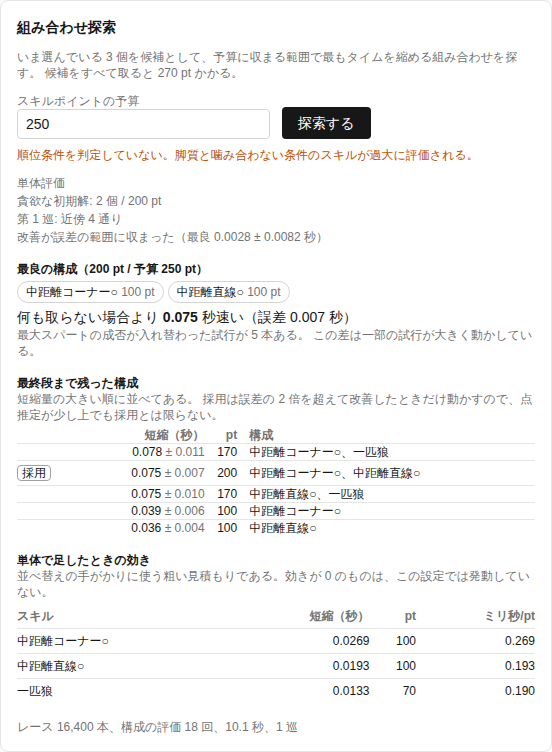
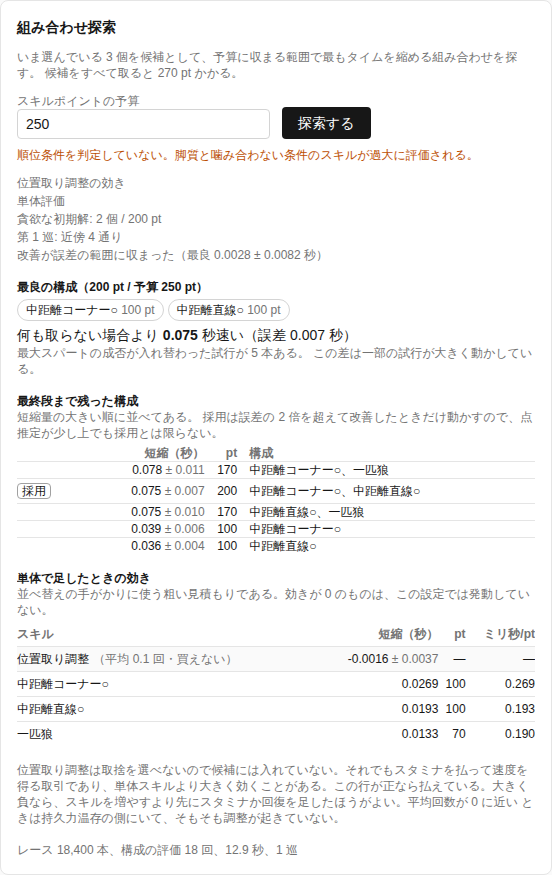
位置取り調整を単体評価の参考行として出す
位置取り調整はスキルと同じ形の取引をしている。目標速度に
positionCompetitionSpeed が乗り、代わりに positionCompetitionStamina を
引く。違うのは取捨を決めるのが利用者ではなくモデルだという点だけである。

そのため候補には入れない。「位置取り調整を取れ」を実行する手段が無いし、
探索は候補ごとに完全なシミュレーションを回すので、この振る舞いは既に
評価に織り込まれている。疑似候補として足しても答えは変わらない。

足りないのは可視化だった。利用者は自分が調整を払えている側にいるのかを
知らされていない。単体評価の表に参考の 1 行を出す。測り方は候補と同じで、
調整を止めた場合との試行ごとの引き算である。止めるのは調整だけにして、
持久力温存はそのままにする。同じ馬から調整の振る舞いだけを抜きたい。

東京 芝2400m・先行での実測。

  スタミナ 1000: 平均 0.09 回、+0.0011 秒（予算 300pt の最良は 0.1302 秒）
  スタミナ 1400: 平均 5.83 回、+0.1203 秒

払えている側では、位置取り調整だけで 270 ポイントぶんのスキルにほぼ
匹敵する。払えていない側では回数が 0 に潰れ、その 0 が「調整の側にいない」
という情報になる。

あわせて逆算の前提を画面と設計書に明記した。逆算が返すのは最小値なので、
その水準では温存の側に落ちる。つまり調整をほとんど払わない走りを前提に
した答えである。調整が毎回起きる前提だと必要スタミナは 170 から 210 ほど
上がる。定義から必然的にそうなるが、気付けないと値をそのまま目標にして
足りなくなる。

余分に走るのは 1 回ぶんだけである。基準の評価は探索が既に持っている。

Claude-Session: https://claude.ai/code/session_01DzNL4zruiATviSwWW6axfN

Changed region(s): [[0.0308, 0.0, 0.9855, 0.9787], [0.4312, 0.7646, 0.4928, 0.7952]]

diff --git a/packages/solver/src/optimize.ts b/packages/solver/src/optimize.ts
@@ -27,6 +27,8 @@ export interface Evaluation {
   readonly times: Float64Array;
   /** 試行ごとの最大スパート成否。1 なら成立。 */
   readonly maxSpurt: Uint8Array;
+  /** 試行ごとの位置取り調整の回数 */
+  readonly positionCompetitionCount: Float64Array;
 }
 
 export interface PairedDiff {
@@ -112,16 +114,39 @@ export class Evaluator {
     });
     const times = new Float64Array(results.length);
     const maxSpurt = new Uint8Array(results.length);
+    const positionCompetitionCount = new Float64Array(results.length);
     for (let i = 0; i < results.length; i++) {
       times[i] = results[i]!.raceTime;
       maxSpurt[i] = results[i]!.maxSpurt ? 1 : 0;
+      positionCompetitionCount[i] = results[i]!.positionCompetitionCount;
     }
     this.races += results.length;
     this.evaluations++;
-    const evaluation: Evaluation = { skillIds: [...skillIds], times, maxSpurt };
+    const evaluation: Evaluation = { skillIds: [...skillIds], times, maxSpurt, positionCompetitionCount };
     this.cache.set(key, evaluation);
     return evaluation;
   }
+}
+
+/**
+ * 位置取り調整が実際に効いている量。
+ *
+ * 位置取り調整は買えるものではないので、候補には入れない。それでも
+ * スタミナを払って速度を得る取引ではあり（`state.ts` の目標速度に
+ * `positionCompetitionSpeed` が乗り、`applyPositionCompetition` で
+ * `positionCompetitionStamina` を引く）、その収支は単体スキルより
+ * 大きいことがある。買えないものとして、参考の 1 行だけ同じ土俵に並べる。
+ *
+ * 測り方は候補の単体評価と同じで、調整を止めた場合との試行ごとの引き算である。
+ * 止めるのは調整だけで、持久力温存はそのままにする。
+ * 同じ馬から調整の振る舞いだけを抜いた場合と比べたい。
+ */
+export interface PositionCompetitionEffect {
+  /** いまの設定で実際に起きた平均回数。0 に近ければ温存側にいる。 */
+  readonly averageCount: number;
+  /** 調整が起きなかった場合から見た短縮量。正なら調整があるほうが速い。 */
+  readonly diff: PairedDiff;
+  readonly races: number;
 }
 
 /** 単体で足したときの効き。並べ替えの手がかりと、UI での表示に使う。 */
@@ -131,6 +156,42 @@ export interface SingleEffect {
   readonly cost: number;
   /** 1 ポイントあたりの短縮量 */
   readonly efficiency: number;
+}
+
+export async function measurePositionCompetition(
+  context: OptimizeContext,
+  baseline: Evaluation,
+  trials: number,
+): Promise<PositionCompetitionEffect> {
+  const system: SystemSetting = { ...context.system, positionCompetitionRate: 0 };
+  const setting: SerializableRaceSetting = { ...context.base, skillIds: [...baseline.skillIds] };
+  const { results } = await context.pool.run(setting, system, {
+    count: trials,
+    seed: context.seed,
+    field: context.field ?? null,
+  });
+  const times = new Float64Array(results.length);
+  const maxSpurt = new Uint8Array(results.length);
+  const positionCompetitionCount = new Float64Array(results.length);
+  for (let i = 0; i < results.length; i++) {
+    times[i] = results[i]!.raceTime;
+    maxSpurt[i] = results[i]!.maxSpurt ? 1 : 0;
+    positionCompetitionCount[i] = results[i]!.positionCompetitionCount;
+  }
+  const without: Evaluation = {
+    skillIds: baseline.skillIds,
+    times,
+    maxSpurt,
+    positionCompetitionCount,
+  };
+  const counts = baseline.positionCompetitionCount;
+  let sum = 0;
+  for (const count of counts) sum += count;
+  return {
+    averageCount: counts.length === 0 ? 0 : sum / counts.length,
+    diff: pairedDiff(without, baseline),
+    races: results.length,
+  };
 }
 
 export interface OptimizeOptions {
@@ -148,6 +209,8 @@ export interface OptimizeOptions {
   readonly minKeep?: number;
   readonly onProgress?: (message: string) => void;
   readonly signal?: AbortSignal;
+  /** 位置取り調整の参考行を測るか。既定は測る。1 回ぶん余分に走る。 */
+  readonly measurePositionCompetition?: boolean;
 }
 
 export interface OptimizeEntry {
@@ -163,6 +226,8 @@ export interface OptimizeResult {
   /** 最終段まで残った構成を、短縮量の大きい順に並べたもの */
   readonly top: readonly OptimizeEntry[];
   readonly singles: readonly SingleEffect[];
+  /** 買えないが効いているもの。測らなかったときは null。 */
+  readonly positionCompetition: PositionCompetitionEffect | null;
   readonly cost: number;
   readonly races: number;
   readonly evaluations: number;
@@ -201,6 +266,14 @@ export async function optimizeSkills(
   // 基準は候補を 1 つも取らない構成
   const baseIds = context.base.skillIds.filter((id) => !candidates.includes(id));
   const baseline = await evaluator.evaluate(baseIds, lastStage);
+
+  // 位置取り調整の参考行。基準の評価をそのまま使うので、余分に走るのは 1 回ぶんだけ。
+  let positionCompetition: PositionCompetitionEffect | null = null;
+  if (options.measurePositionCompetition !== false) {
+    report('位置取り調整の効き');
+    positionCompetition = await measurePositionCompetition(context, baseline, lastStage);
+    evaluator.races += positionCompetition.races;
+  }
 
   // 単体評価。並べ替えの手がかりなので、少ない試行で足りる。
   report('単体評価');
@@ -300,6 +373,7 @@ export async function optimizeSkills(
     bestDiff: currentDiff,
     top,
     singles,
+    positionCompetition,
     cost: context.cost.totalCost(selected(current, candidates)),
     races: evaluator.races,
     evaluations: evaluator.evaluations,

diff --git a/packages/sim/test/optimize.test.ts b/packages/sim/test/optimize.test.ts
@@ -6,7 +6,13 @@ import { WorkerPool } from '../src/parallel/pool.ts';
 import { toSerializable } from '../src/parallel/protocol.ts';
 import { defaultSystemSetting, type RaceSetting } from '../src/setting.ts';
 import { createCostModel, dedupeByGroup } from '../../solver/src/cost.ts';
-import { Evaluator, optimizeSkills, pairedDiff, type OptimizeContext } from '../../solver/src/optimize.ts';
+import {
+  Evaluator,
+  measurePositionCompetition,
+  optimizeSkills,
+  pairedDiff,
+  type OptimizeContext,
+} from '../../solver/src/optimize.ts';
 
 const data = loadGameData();
 const system = defaultSystemSetting();
@@ -158,4 +164,83 @@ describe('組み合わせ探索', () => {
       await pool.dispose();
     }
   }, 240000);
+});
+
+describe('位置取り調整の参考行', () => {
+  /** スタミナだけを差し替えた文脈を作る。 */
+  function contextWithStamina(pool: WorkerPool, stamina: number): OptimizeContext {
+    return {
+      ...makeContext(pool),
+      base: toSerializable({ ...setting, uma: { ...setting.uma, stamina } }),
+    };
+  }
+
+  it('平均回数が評価そのものと一致する', async () => {
+    const pool = new WorkerPool(nodeWorkerFactory, 2);
+    try {
+      const context = contextWithStamina(pool, 1400);
+      const evaluator = new Evaluator(context);
+      const baseline = await evaluator.evaluate([], 200);
+      const effect = await measurePositionCompetition(context, baseline, 200);
+
+      let sum = 0;
+      for (const count of baseline.positionCompetitionCount) sum += count;
+      expect(effect.averageCount).toBeCloseTo(sum / 200, 10);
+      expect(effect.races).toBe(200);
+      expect(effect.diff.trials).toBe(200);
+    } finally {
+      await pool.dispose();
+    }
+  }, 120000);
+
+  it('スタミナが足りていれば調整があるほうが速い', async () => {
+    const pool = new WorkerPool(nodeWorkerFactory, 2);
+    try {
+      const context = contextWithStamina(pool, 1400);
+      const evaluator = new Evaluator(context);
+      const baseline = await evaluator.evaluate([], 300);
+      const effect = await measurePositionCompetition(context, baseline, 300);
+
+      // 余裕がある側では調整が実際に起きており、その収支は正になる。
+      expect(effect.averageCount).toBeGreaterThan(3);
+      expect(effect.diff.mean).toBeGreaterThan(2 * effect.diff.stdError);
+    } finally {
+      await pool.dispose();
+    }
+  }, 120000);
+
+  it('スタミナが足りなければ調整はそもそも起きない', async () => {
+    const pool = new WorkerPool(nodeWorkerFactory, 2);
+    try {
+      const context = contextWithStamina(pool, 700);
+      const evaluator = new Evaluator(context);
+      const baseline = await evaluator.evaluate([], 200);
+      const effect = await measurePositionCompetition(context, baseline, 200);
+
+      // 持久力温存が先に発火するので、平均回数はほぼ 0 になる。
+      // このとき参考行は「調整の側にいない」ことを示す。
+      expect(effect.averageCount).toBeLessThan(0.5);
+    } finally {
+      await pool.dispose();
+    }
+  }, 120000);
+
+  it('測らない指定なら null を返し、レース数も増えない', async () => {
+    const pool = new WorkerPool(nodeWorkerFactory, 2);
+    try {
+      const context = makeContext(pool);
+      const options = {
+        candidates: [skill('中距離コーナー○').id, skill('中距離直線○').id],
+        budget: 200,
+        stages: [40, 80],
+      };
+      const off = await optimizeSkills(context, { ...options, measurePositionCompetition: false });
+      const on = await optimizeSkills(context, options);
+      expect(off.positionCompetition).toBeNull();
+      expect(on.positionCompetition).not.toBeNull();
+      expect(on.races).toBeGreaterThan(off.races);
+    } finally {
+      await pool.dispose();
+    }
+  }, 180000);
 });

diff --git a/apps/web/src/components/Optimize.tsx b/apps/web/src/components/Optimize.tsx
@@ -165,6 +165,25 @@ export function OptimizePanel() {
                 </tr>
               </thead>
               <tbody>
+                {result.positionCompetition !== null && (
+                  <tr className="border-t border-neutral-200 bg-neutral-50 dark:border-neutral-800 dark:bg-neutral-800/40">
+                    <td className="py-1">
+                      位置取り調整
+                      <span className="ml-1 text-neutral-500">
+                        （平均 {result.positionCompetition.averageCount.toFixed(1)} 回・買えない）
+                      </span>
+                    </td>
+                    <td className="text-right tabular-nums">
+                      {result.positionCompetition.diff.mean.toFixed(4)}
+                      <span className="text-neutral-500">
+                        {' '}
+                        ± {(2 * result.positionCompetition.diff.stdError).toFixed(4)}
+                      </span>
+                    </td>
+                    <td className="text-right tabular-nums">—</td>
+                    <td className="text-right tabular-nums">—</td>
+                  </tr>
+                )}
                 {result.singles.map((single) => (
                   <tr
                     key={single.skillId}
@@ -181,6 +200,15 @@ export function OptimizePanel() {
               </tbody>
             </table>
           </div>
+
+          {result.positionCompetition !== null && (
+            <p className="text-xs text-neutral-500 dark:text-neutral-400">
+              位置取り調整は取捨を選べないので候補には入れていない。それでもスタミナを払って速度を
+              得る取引であり、単体スキルより大きく効くことがある。この行が正なら払えている。大きく
+              負なら、スキルを増やすより先にスタミナか回復を足したほうがよい。平均回数が 0 に近い
+              ときは持久力温存の側にいて、そもそも調整が起きていない。
+            </p>
+          )}
 
           <p className="text-xs text-neutral-500 dark:text-neutral-400">
             レース {result.races.toLocaleString()} 本、構成の評価 {result.evaluations} 回、

diff --git a/packages/solver/src/optimize-cli.ts b/packages/solver/src/optimize-cli.ts
@@ -93,6 +93,17 @@ for (const single of result.singles) {
       ` = ${(1000 * single.efficiency).toFixed(3)} ミリ秒/pt`,
   );
 }
+if (result.positionCompetition !== null) {
+  const { averageCount, diff } = result.positionCompetition;
+  console.log('');
+  console.log('位置取り調整（買えないので候補には入れない）:');
+  console.log(
+    `  平均 ${averageCount.toFixed(2)} 回、調整が起きない場合との差 ` +
+      `${diff.mean >= 0 ? '+' : ''}${diff.mean.toFixed(4)} 秒（誤差 ${(2 * diff.stdError).toFixed(4)}）`,
+  );
+  console.log('  正なら払えている。大きく負なら、スキルより先にスタミナか回復を足したほうがよい。');
+}
+
 console.log('');
 console.log(`最良の構成（${result.cost} pt / 予算 ${budget} pt）:`);
 for (const id of result.best) console.log(`  ${name(id)} (${cost.cost(id)} pt)`);

diff --git a/apps/web/src/components/Inverse.tsx b/apps/web/src/components/Inverse.tsx
@@ -78,6 +78,8 @@ export function InversePanel() {
     <Panel title="逆算">
       <p className="mb-3 text-xs text-neutral-500 dark:text-neutral-400">
         目標を先に決めて、必要なステータスを求める。試行ごとに目標を満たす最小値を探し、その分布から達成率ごとの必要値を読む。
+        返すのは最小値なので、この水準では持久力温存の側に落ちる。つまり<strong>位置取り調整をほとんど払わない走りを前提にした答え</strong>である。
+        調整が毎回起きる前提だと、必要なスタミナは 170 から 210 ほど上がる。
       </p>
       <div className="grid grid-cols-1 gap-3 sm:grid-cols-3">
         <label className="block">
